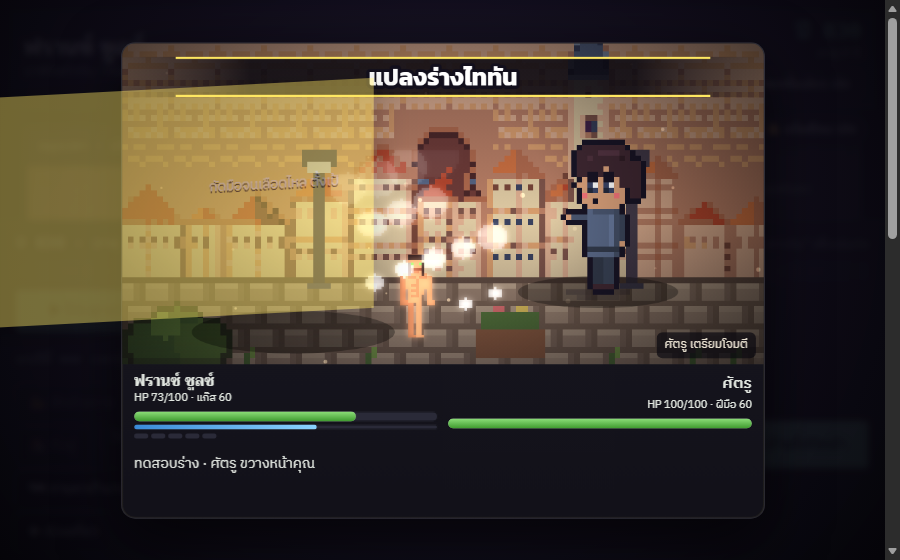
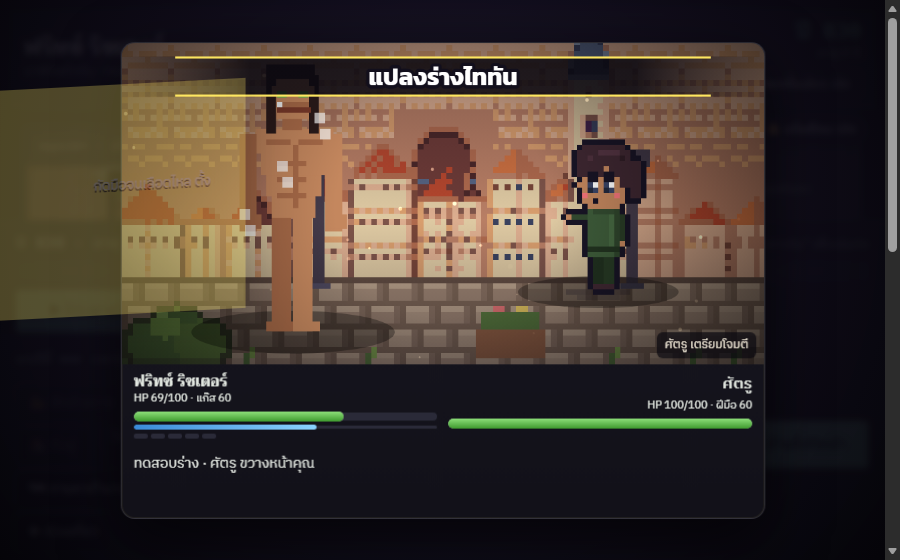
promo: world descriptions and learnable skills

diff --git a/about/index.html b/about/index.html
@@ -40,8 +40,12 @@ p{margin:0;max-width:65ch}
 .world{display:grid;gap:10px;align-content:start}
 .world .meta{display:flex;flex-wrap:wrap;align-items:baseline;gap:6px 12px}
 .world .era{font-family:var(--pixel);font-size:11px;color:var(--muted);letter-spacing:.06em}
-.world .skill{font-size:15px;color:var(--muted)}
-.world .skill b{color:var(--accent)}
+.world .desc{color:var(--fg);font-size:15.5px}
+.learn{display:grid;gap:8px;padding:12px 14px;background:var(--panel);border:1px solid var(--line);border-radius:6px}
+.learn .lbl{font-family:var(--pixel);font-size:11px;letter-spacing:.08em;color:var(--accent2);text-transform:uppercase}
+.chips{display:flex;flex-wrap:wrap;gap:6px;margin:0;padding:0;list-style:none}
+.chips li{padding:3px 10px;border-radius:999px;border:1px solid var(--line);background:var(--bg);font-size:13.5px;color:var(--fg)}
+.learn .more{font-size:13px;color:var(--muted)}
 .mobile{display:grid;grid-template-columns:minmax(0,1fr) minmax(0,1.3fr);gap:24px;align-items:center}
 .mobile .shot{max-width:300px}
 .note{color:var(--muted);font-size:14px}
@@ -81,22 +85,24 @@ footer{color:var(--muted);font-size:14px;border-top:1px solid var(--line);paddin
       <li><div><b>ต่อสู้แบบเทิร์นเบส</b> <span>ท่าไม้ตายตามเรื่อง ร่างตื่นพลังที่เปลี่ยนโมเดลตัวละคร และหลบด้วยการกดจังหวะ</span></div></li>
       <li><div><b>ออนไลน์กับผู้เล่นจริง</b> <span>เปิดเซิร์ฟเวอร์เอง ทำภารกิจด้วยกัน และวีรกรรมของคุณกลายเป็นข่าวให้ผู้เล่นอื่นเห็น</span></div></li>
       <li><div><b>คนรอบตัวมีความคิด</b> <span>ฟองความคิดลอยบนหัวคนในฉาก และทุกคนจำได้ว่าคุณทำอะไรกับเขา</span></div></li>
-      <li><div><b>ร้านค้า ท่องเที่ยว และที่เที่ยว</b> <span>อาวุธ ชุด พาหนะตามเรื่อง กับสถานที่ดังที่มีไข่อีสเตอร์ซ่อนอยู่</span></div></li>
+      <li><div><b>ท่องเที่ยวสถานที่ดังในเรื่อง</b> <span>เจอตัวละครหลักตัวจริง คุย ขอให้สอน หรือประลองฝีมือ และฉากลับ (Easter egg) ที่ซ่อนอยู่ทุกที่</span></div></li>
       <li><div><b>โทรศัพท์ หนังสือพิมพ์ หรือจดหมาย</b> <span>ดูว่าใครพูดถึงคุณ ตามยุคที่คุณเกิด</span></div></li>
+      <li><div><b>ชิงตำแหน่งในเรื่อง</b> <span>ฆ่าสุคุนะแล้วเป็นราชาคำสาปเอง ขึ้นเป็นโฮคาเงะ ราชาโจรสลัด หรือผู้หยุดแผ่นดินถล่ม</span></div></li>
+      <li><div><b>ตายแล้วยังไม่จบ</b> <span>ในบลีชวิญญาณเลือกเป็นยมทูตหรือฮอลโลว์ได้ และทุกโลกส่งต่อชีวิตให้ลูกหลาน</span></div></li>
     </ul>
   </section>
 
   <section id="worlds">
     <h2>8 เรื่องให้เลือกเกิด</h2>
     <div class="worlds">
-      <article class="world"><div class="shot"><img src="img/naruto.png" alt="นารูโตะ: ซูซาโนะโอะ" loading="lazy" width="900" height="560"></div><div class="meta"><h3>นารูโตะ</h3><span class="era">KONOHA 20–160</span></div><p class="skill">ท่าเด่น <b>ซูซาโนะโอะ</b> · 43 วิชา ตระกูลอุจิวะ เนตรสีขาว และสัตว์หาง</p></article>
-      <article class="world"><div class="shot"><img src="img/aot.png" alt="ผ่าพิภพไททัน: แปลงร่างไททัน" loading="lazy" width="900" height="560"></div><div class="meta"><h3>ผ่าพิภพไททัน</h3><span class="era">YEAR 815–980</span></div><p class="skill">ท่าเด่น <b>แปลงร่างไททัน</b> · 9 ไททัน เครื่องเคลื่อนที่สามมิติ และสายเลือดแอคเคอร์แมน</p></article>
-      <article class="world"><div class="shot"><img src="img/op.png" alt="วันพีซ: ผลเมระเมระ" loading="lazy" width="900" height="560"></div><div class="meta"><h3>วันพีซ</h3><span class="era">SEA YEAR 1470–1600</span></div><p class="skill">ท่าเด่น <b>ผลเมระเมระ</b> · ออกเรือตามหาผลปีศาจ 28 ผลตามเรื่อง และฮาคิทั้งสามแบบ</p></article>
-      <article class="world"><div class="shot"><img src="img/jjk.png" alt="มหาเวทย์ผนึกมาร: วิชาว่างเปล่า ม่วง" loading="lazy" width="900" height="560"></div><div class="meta"><h3>มหาเวทย์ผนึกมาร</h3><span class="era">1926–2080</span></div><p class="skill">ท่าเด่น <b>วิชาว่างเปล่า: ม่วง</b> · ขยายอาณาเขต ศึกชิบุยะกับชินจูกุ และเลือกเกิดย้อนไปยุคเฮอันที่สุคุนะยังมีร่างจริงสี่แขน หรือยุคซามูไรที่ผู้ใช้ไสยเวทถือดาบได้ในโลกเดียวกัน</p></article>
-      <article class="world"><div class="shot"><img src="img/bleach.png" alt="บลีช: บังไค" loading="lazy" width="900" height="560"></div><div class="meta"><h3>บลีช</h3><span class="era">KARAKURA · SOUL SOCIETY</span></div><p class="skill">ท่าเด่น <b>บังไค</b> · ตายแล้วเลือกได้ว่าจะไปเป็นยมทูตหรือกลายเป็นฮอลโลว์</p></article>
-      <article class="world"><div class="shot"><img src="img/jojo.png" alt="โจโจ้: ฝนหมัดของสแตนด์" loading="lazy" width="900" height="560"></div><div class="meta"><h3>โจโจ้</h3><span class="era">1950–2050</span></div><p class="skill">ท่าเด่น <b>ฝนหมัดของสแตนด์</b> · สแตนด์ 19 ตัวตาม lore ฮามอน และการหยุดเวลา</p></article>
-      <article class="world"><div class="shot"><img src="img/db.png" alt="ดราก้อนบอล: คาเมฮาเมฮะ" loading="lazy" width="900" height="560"></div><div class="meta"><h3>ดราก้อนบอล</h3><span class="era">AGE 700–800</span></div><p class="skill">ท่าเด่น <b>คาเมฮาเมฮะ</b> · ซูเปอร์ไซย่า อัลตร้าอินสติงต์ และบินไปดาวนาเม็กได้</p></article>
-      <article class="world"><div class="shot"><img src="img/lookism.png" alt="ลุคิซึม: คอมโบหมัดเท้า" loading="lazy" width="900" height="560"></div><div class="meta"><h3>ลุคิซึม</h3><span class="era">GEN 0 · 1970–2040</span></div><p class="skill">ท่าเด่น <b>คอมโบหมัดเท้า</b> · ห้าเส้นทางการบรรลุ สภาวะไร้สติของยามาซากิ และราชาแต่ละเมือง</p></article>
+      <article class="world"><div class="shot"><img src="img/naruto.png" alt="นารูโตะ: ซูซาโนะโอะ" loading="lazy" width="900" height="560"></div><div class="meta"><h3>นารูโตะ</h3><span class="era">KONOHA 20–160</span></div><p class="desc">คุณเกิดในหมู่บ้านนินจาที่ซ่อนตัวอยู่กลางป่า เด็กอายุสิบสองก็ออกภารกิจได้ ทุกตระกูลมีวิชาลับของตัวเอง และสงครามนินจาอาจมาถึงได้ทุกเมื่อ</p><div class="learn"><span class="lbl">เรียนรู้ได้ในโลกนี้</span><ul class="chips"><li>คาถาไฟ</li><li>กระสุนวงจักร</li><li>จิโดริ</li><li>เนตรวงแหวน</li><li>อามาเทราสึ</li><li>ซูซาโนะโอะ</li><li>แปดตรีแกรม</li><li>ประตูทั้งแปด</li><li>โหมดเซียน</li><li>พลังสัตว์หาง</li><li>วิชาอัญเชิญ</li><li>เทพสายฟ้าเหิน</li><li>วิชาไม้</li><li>ศิลปะระเบิด</li></ul><span class="more">รวม 43 วิชา</span></div></article>
+      <article class="world"><div class="shot"><img src="img/aot.png" alt="ผ่าพิภพไททัน: แปลงร่างไททัน" loading="lazy" width="900" height="560"></div><div class="meta"><h3>ผ่าพิภพไททัน</h3><span class="era">YEAR 815–980</span></div><p class="desc">คุณเกิดหลังกำแพงสูงห้าสิบเมตรที่ปกป้องมนุษย์จากไททันกินคน หรือในเขตกักกันของชาวเอลเดียที่ทุกคนต้องสวมปลอกแขน</p><div class="learn"><span class="lbl">เรียนรู้ได้ในโลกนี้</span><ul class="chips"><li>เครื่องเคลื่อนย้ายสามมิติ</li><li>หอกสายฟ้า</li><li>ท่าหมุนตัวฟันแบบรีไวล์</li><li>พลังตื่นของแอคเคอร์แมน</li><li>ไททันทั้ง 9 ร่าง</li><li>แข็งตัวผิว</li><li>ไอน้ำของไททันมหึมา</li><li>ขว้างหินแบบไททันวานร</li><li>หนามคริสตัลค้อนศึก</li><li>เสียงคำรามแห่งพิกัด</li></ul><span class="more">รวม 16 วิชา</span></div></article>
+      <article class="world"><div class="shot"><img src="img/op.png" alt="วันพีซ: ผลเมระเมระ" loading="lazy" width="900" height="560"></div><div class="meta"><h3>วันพีซ</h3><span class="era">SEA YEAR 1470–1600</span></div><p class="desc">คุณเกิดในยุคโจรสลัดที่ทะเลกว้างไม่มีที่สิ้นสุด ผลปีศาจซ่อนอยู่บนเกาะห่างไกล ทหารเรือไล่ล่าค่าหัว และทุกคนฝันถึงสมบัติวันพีซ</p><div class="learn"><span class="lbl">เรียนรู้ได้ในโลกนี้</span><ul class="chips"><li>ผลปีศาจ 28 ผลตามเรื่อง</li><li>ฮาคิสังเกต</li><li>ฮาคิเกราะ</li><li>ฮาคิราชันย์</li><li>ริวโอ</li><li>ชิกัน</li><li>โซรุ</li><li>รังเคียคุ</li><li>ซันโตริว</li><li>คาราเต้มนุษย์เงือก</li></ul><span class="more">ออกเรือตามหาผลปีศาจได้</span></div></article>
+      <article class="world"><div class="shot"><img src="img/jjk.png" alt="มหาเวทย์ผนึกมาร: วิชาว่างเปล่า ม่วง" loading="lazy" width="900" height="560"></div><div class="meta"><h3>มหาเวทย์ผนึกมาร</h3><span class="era">1926–2080</span></div><p class="desc">คุณเกิดในญี่ปุ่นที่คำสาปเกิดจากความกลัวของมนุษย์ ผู้ใช้ไสยเวทต่อสู้กันในเงามืด และคุณเลือกเกิดย้อนไปยุคเฮอันที่สุคุนะยังมีร่างจริงสี่แขน หรือยุคซามูไรได้ในโลกเดียวกัน</p><div class="learn"><span class="lbl">เรียนรู้ได้ในโลกนี้</span><ul class="chips"><li>วิชาประจำตัว</li><li>ไร้ขีดจำกัด</li><li>น้ำเงิน แดง ม่วง</li><li>ขยายอาณาเขต</li><li>วิชาย้อนกลับพลังคำสาป</li><li>แบล็กแฟลช</li><li>เงาสิบประการ</li><li>วิชาฉายภาพ</li><li>วิชาควบคุมเลือด</li><li>คำพูดสาป</li><li>กฎพันธนาการ</li><li>อาณาเขตแบบง่าย</li></ul><span class="more">รวม 22 วิชา</span></div></article>
+      <article class="world"><div class="shot"><img src="img/bleach.png" alt="บลีช: บังไค" loading="lazy" width="900" height="560"></div><div class="meta"><h3>บลีช</h3><span class="era">KARAKURA · SOUL SOCIETY</span></div><p class="desc">คุณเกิดในเมืองคาราคุระที่วิญญาณเดินปะปนกับคน ยมทูตชุดดำคอยปราบฮอลโลว์ และหลังความตายยังมีโซลโซไซตี้หรือฮูเอโกมุนโดรออยู่</p><div class="learn"><span class="lbl">เรียนรู้ได้ในโลกนี้</span><ul class="chips"><li>ดาบฟันวิญญาณ</li><li>ชิไค</li><li>บังไค</li><li>เก็ตสึงะ เทนโช</li><li>คิโด</li><li>ชุนโป</li><li>หน้ากากฮอลโลว์</li><li>เซโร่</li><li>พลังควินซี</li><li>ฟูลบริง</li><li>ซากุระพันกลีบ</li></ul><span class="more">ตายแล้วเป็นฮอลโลว์ได้</span></div></article>
+      <article class="world"><div class="shot"><img src="img/jojo.png" alt="โจโจ้: ฝนหมัดของสแตนด์" loading="lazy" width="900" height="560"></div><div class="meta"><h3>โจโจ้</h3><span class="era">1950–2050</span></div><p class="desc">คุณเกิดในโลกที่ผู้ใช้สแตนด์ดึงดูดกันเอง จากเมืองเล็กๆ อย่างโมริโอไปจนถึงแก๊งมาเฟียในอิตาลี โดยมีสายเลือดโจสตาร์กับดิโออยู่กลางเรื่อง</p><div class="learn"><span class="lbl">เรียนรู้ได้ในโลกนี้</span><ul class="chips"><li>สแตนด์ 19 ตัวตามเรื่อง</li><li>ฝนหมัดของสแตนด์</li><li>ความสามารถของสแตนด์</li><li>ฮามอน</li><li>การหมุน</li><li>หยุดเวลา</li><li>เรเควียม</li><li>ลมปราณใบมีดน้ำ</li></ul><span class="more">สแตนด์ทุกตัวมีโมเดลตาม lore</span></div></article>
+      <article class="world"><div class="shot"><img src="img/db.png" alt="ดราก้อนบอล: คาเมฮาเมฮะ" loading="lazy" width="900" height="560"></div><div class="meta"><h3>ดราก้อนบอล</h3><span class="era">AGE 700–800</span></div><p class="desc">คุณเกิดบนโลกที่นักสู้บินได้ ยิงลำแสงพลังได้ และมนุษย์ต่างดาวแวะมาเยือนบ่อย ดราก้อนบอลเจ็ดลูกกระจายอยู่ทั่วโลกรอให้ใครสักคนรวบรวม</p><div class="learn"><span class="lbl">เรียนรู้ได้ในโลกนี้</span><ul class="chips"><li>คาเมฮาเมฮะ</li><li>เก็นกิดามะ</li><li>ไคโอเคน</li><li>คิเอ็นซัน</li><li>ไทโยเคน</li><li>ชุนคันอิโด</li><li>แกลิคกัน</li><li>มาคังโคซัปโป</li><li>ซูเปอร์ไซย่า 1 2 และก็อด</li><li>อัลตร้าอินสติงต์</li><li>แปลงร่างโอซารุ</li></ul><span class="more">รวม 17 วิชา</span></div></article>
+      <article class="world"><div class="shot"><img src="img/lookism.png" alt="ลุคิซึม: คอมโบหมัดเท้า" loading="lazy" width="900" height="560"></div><div class="meta"><h3>ลุคิซึม</h3><span class="era">GEN 0 · 1970–2040</span></div><p class="desc">คุณเกิดในเกาหลีใต้ที่หน้าตาตัดสินชีวิต แก๊งนักเรียนครองแต่ละย่าน มีราชาประจำทุกเมือง และตำนานรุ่น 0 กับตระกูลยามาซากิยังเป็นเงาของทุกการต่อสู้</p><div class="learn"><span class="lbl">เรียนรู้ได้ในโลกนี้</span><ul class="chips"><li>มวยสากล</li><li>คาราเต้เคียวคุชิน</li><li>ซิสเตมา</li><li>เทควันโด</li><li>ซิรึม</li><li>ก๊อปปี้ท่า</li><li>อัลตร้าอินสติงต์</li><li>ปลดล็อก</li><li>การบรรลุ 5 เส้นทาง</li><li>หมัดของคิม กัปรยอง</li><li>สภาวะไร้สติของยามาซากิ</li><li>ดาบสายอีบังโฮและมูซาชิ</li></ul><span class="more">รวม 25 วิชา</span></div></article>
     </div>
   </section>
 
